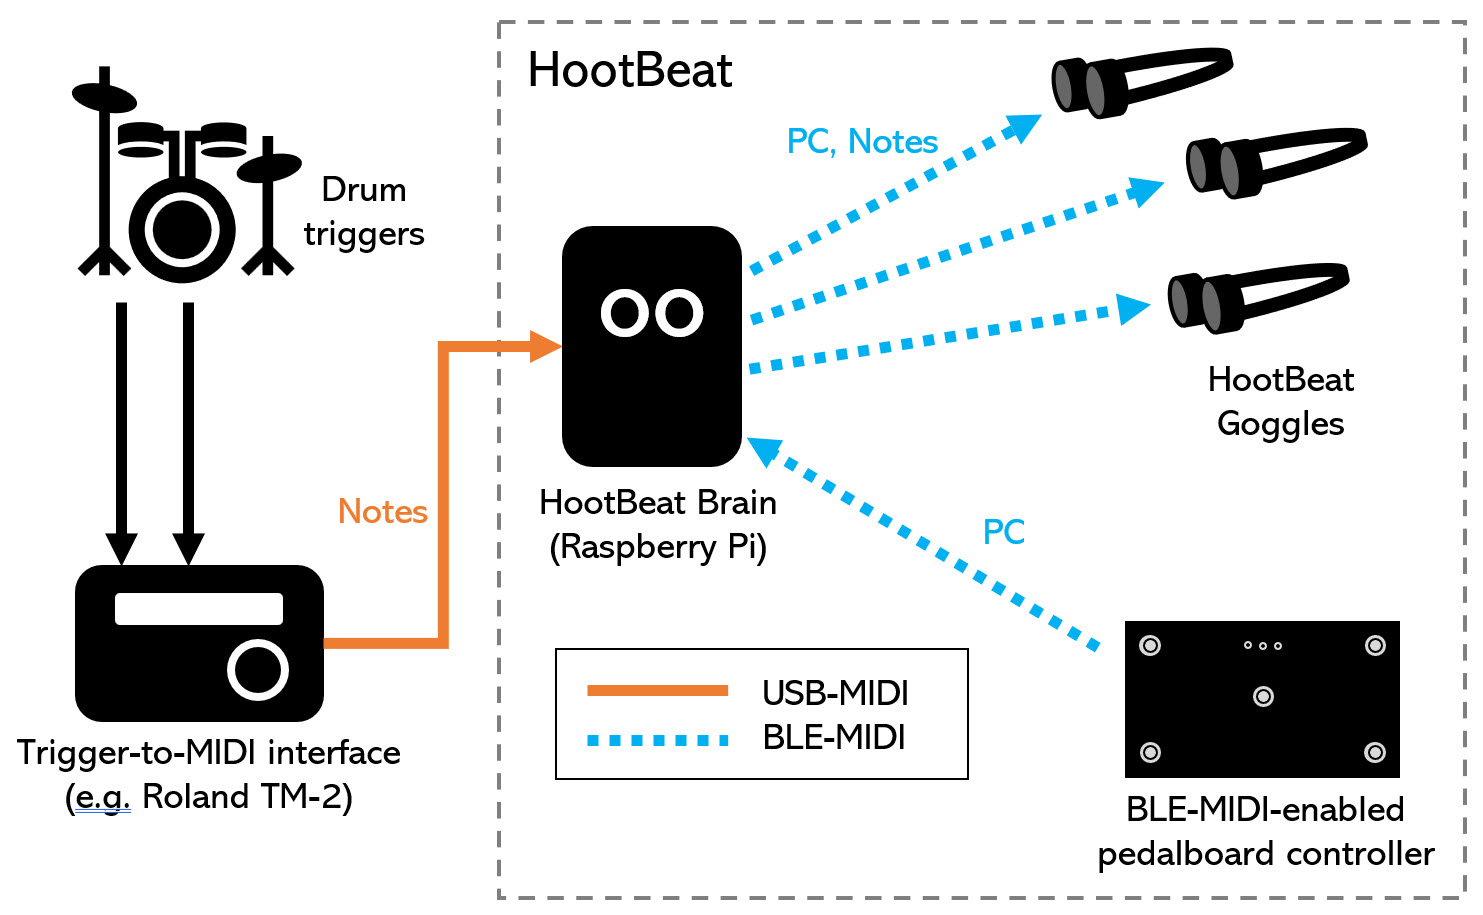
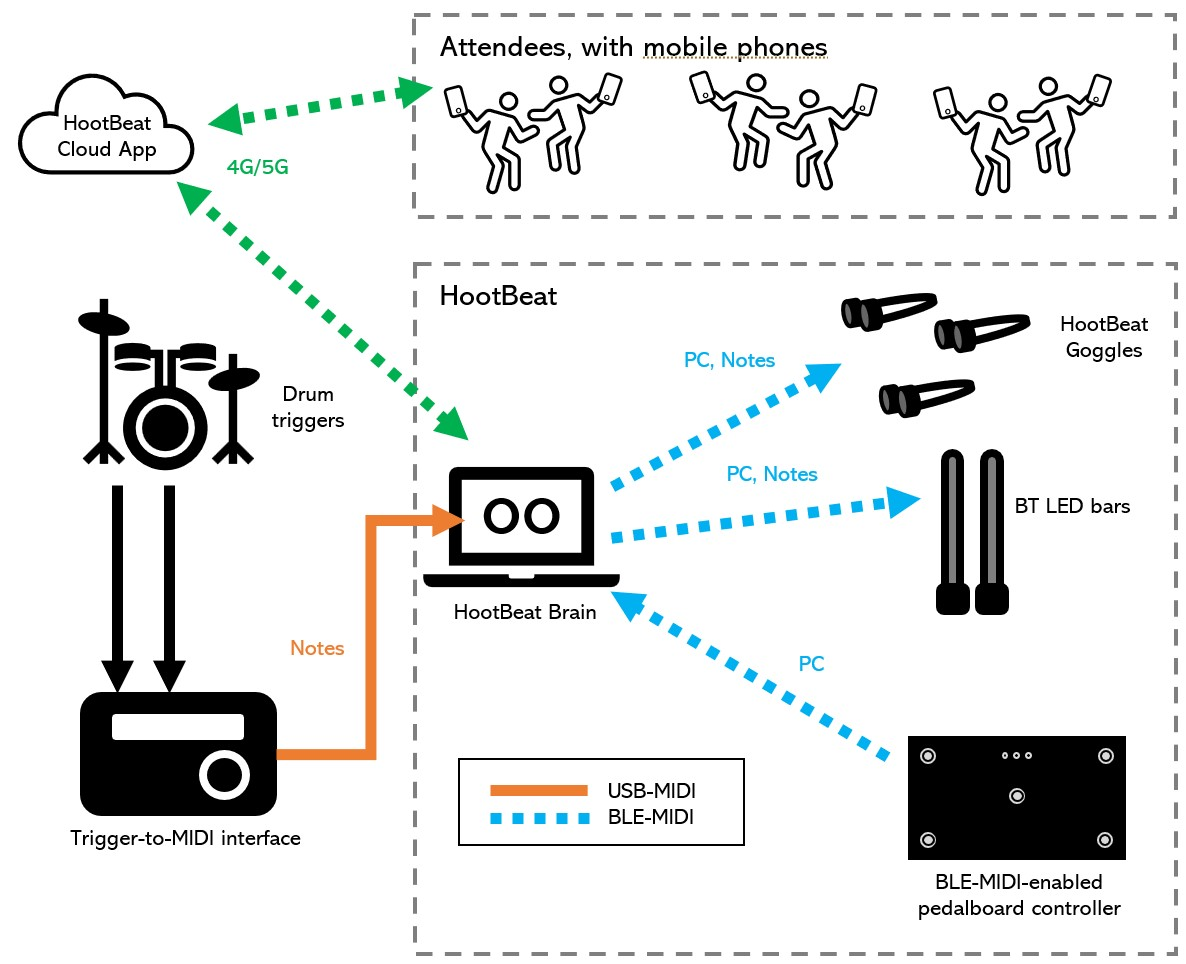
Updated block diagram

diff --git a/README.md b/README.md
@@ -1,7 +1,7 @@
 # HOOTBEAT
 
-ESP32-based BLE-MIDI controlled goggles and Raspberry Pi service to manage the system.
-Great for enhancing live music performances.
+HootBeat features BLE-MIDI controlled wearable and ambient devices for interactive linghtening.
+Great for enhancing an inviting participation of audience in live music performances.
 
 ## Block diagram
 ![HootBeat block diagram](HootBeat-block_diagram.jpg)
